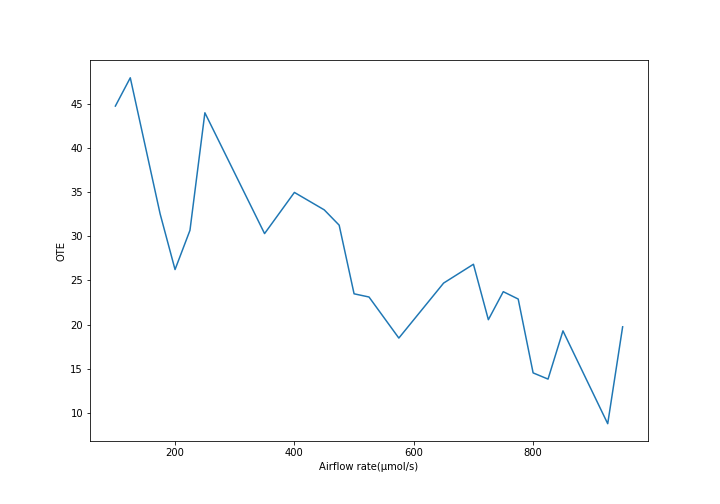
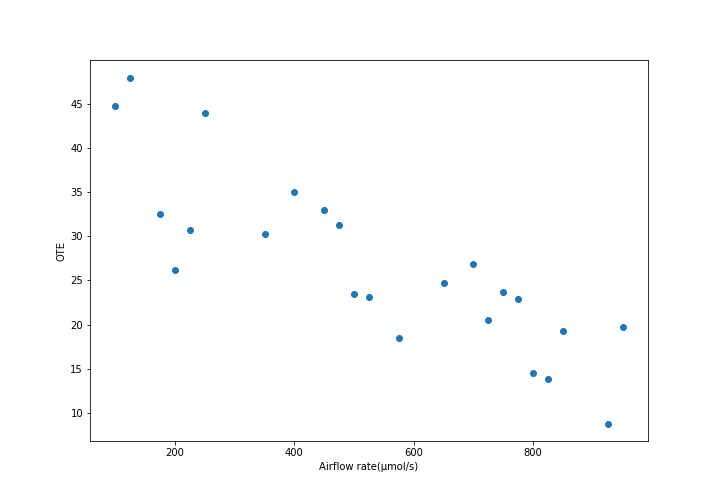
asd

diff --git a/Lab4/team10_lab4.md b/Lab4/team10_lab4.md
@@ -1,6 +1,6 @@
 # Lab 4 for CEE 4530
 
-#### Team 10: Victor Khong & Jacqueline Wong ####
+#### Team 10: Victor Khong (8 hours) & Jacqueline Wong (12 hours) ####
 
 <b> 1. Eliminate the data from each data set when the dissolved oxygen concentration was less than 2 mg/L. This will ensure that all of the sulfite has reacted. Also remove the data when the dissolved oxygen concentration was greater than 6 mg/L to reduce the effect of measurement errors when the oxygen deficit is small.</b>
 
@@ -58,7 +58,7 @@ $$OTE=\frac{\hat{k}_{v,l} \left(C^{* } -C\right)VRT}{MW_{O_{2} } Q_{air} P_{air}
 
 <b>Figure 4</b>: Plots of oxygen transfer efficiency against airflow rates.
 
-While there is not a clear trend, appears that apart from some anomalies, oxygen transfer efficiency decreases with airflow rate. This makes sense as the more oxygen is pumped per unit time, the faster it rises and escapes into the air above the water.
+While there is not a clear simple trend, appears that apart from some anomalies, oxygen transfer efficiency decreases with airflow rate. This makes sense as the more oxygen is pumped per unit time, the faster it rises and escapes into the air above the water. It also matches with the above equation.
 
 <b> 8. Comment on the oxygen transfer efficiency and the trend or trends that you observe.</b>
 
@@ -70,7 +70,7 @@ Another trend that observed is that the greater the air flow rate, the lower the
 
 <b> 9. Propose a change to the experimental apparatus that would increase the efficiency.</b>
 
-A change to the experimental apparatus that would increase the efficiency is using a deeper and less wide container but filling the same volume of water such that a larger airflow rate could be used without the water overflowing from the container and disrupting our results. This would enable us to test for more airflow rates since the dissolved oxygen concentration increases at a greater rate with a higher airflow rate. However, since we still would like to test a range of airflow rate values, each airflow rate value currently used in this experiment can be increased by the same magnitude, for example by 50 µmol/s or by 50%. This change in experimental apparatus would also enable us to test for a larger range of airflow rate values so there is greater flexibility in choosing the air flow rate values.
+A change to the experimental apparatus that would increase the efficiency is using a deeper and less wide container but filling the same volume of water such that a larger airflow rate could be used without the water overflowing from the container and disrupting our results. This would enable us to test for more airflow rates since the dissolved oxygen concentration increases at a slight greater rate with a higher airflow rate. More importantly, this will increase the surface area with which the oxygen comes into direct contact with the water, increasing the time for which the oxygen is able to transfer into the water. However, since we still would like to test a range of airflow rate values, each airflow rate value currently used in this experiment can be increased by the same magnitude, for example by 50 µmol/s or by 50%. This change in experimental apparatus would also enable us to test for a larger range of airflow rate values so there is greater flexibility in choosing the air flow rate values.
 
 <b> 10. Verify that your report and graphs meet the requirements.</b>
 
@@ -96,11 +96,13 @@ To show our understanding of the ProCoDA program, we have also written a ProCoDA
 
 #### Conclusions ####
 
-Overall, for this experiment, we found out that the greater the air flow rate, the greater the rate of increase in dissolved oxygen concentration and the lower the oxygen transfer efficiency. Furthermore, it was found that the actual aeration process actually requires less time than predicted by our model.
+Overall, for this experiment, we found out that the greater the air flow rate, the greater the rate of increase in dissolved oxygen concentration, the greater the volume gas transfer coefficient and the lower the oxygen transfer efficiency. Furthermore, it was found that the actual aeration process actually requires less time than predicted by our model.
 
 #### Suggestions ####
 
 As mentioned in Question 9, using a larger container but filling the same volume of water is beneficial to the experiment. The problem with the current experimental apparatus is that water often has a chance to overflow at high air flow rates, which would disrupt our experiment. To counter for this, we are forced to used lower air flow rates. By using a larger container but filling the same volume of water, it would increase the efficiency because a larger airflow rate could be used without the water overflowing from the container and disrupting our results. This would enable us to test for more airflow rates since the dissolved oxygen concentration increases at a greater rate with a higher airflow rate. However, since we still would like to test a range of airflow rate values, each airflow rate value currently used in this experiment can be increased by the same magnitude, for example by 50µmol/s or by 50%. This change in experimental apparatus would also enable us to test for a larger range of airflow rate values so there is greater flexibility in choosing the air flow rate values.
+
+As seen in Figures 3 and 4, there were some anomalies in the experiment that made it difficult to identify trends. Perhaps we should consider having each group stick to one airflow rate but repeating the experiment 3 times for that airflow. In other words, we feel that repeating the experiment would increase the reliability of our results, especially since we see from our graphs, that the values fluctuate a lot.
 
 Another suggestion is to include more pictures and diagrams in the instructions. We felt that pictures of different components and diagrams would have clarified some of the instructions and made it easier for us to follow the instructions step-by-step. This would have enabled us to complete the experiment with less mistakes and with greater efficiency.
 
@@ -183,11 +185,11 @@ for i in range(airflows.size):
 # Question 2
 
 plt.figure('ax',(10,7))
-plt.plot(time_data[0], DO_data[0],'-')
-plt.plot(time_data[4], DO_data[4],'-')
-plt.plot(time_data[11], DO_data[11],'-')
-plt.plot(time_data[15], DO_data[15],'-')
-plt.plot(time_data[22], DO_data[22],'-')
+plt.plot(time_data[0], DO_data[0],'o')
+plt.plot(time_data[4], DO_data[4],'o')
+plt.plot(time_data[11], DO_data[11],'o')
+plt.plot(time_data[15], DO_data[15],'o')
+plt.plot(time_data[22], DO_data[22],'o')
 plt.xlabel(r'time (s)')
 plt.ylabel(r'Oxygen concentration (mg/L)')
 leg = plt.legend((airflows[0].magnitude,airflows[4].magnitude,airflows[11].magnitude,airflows[15].magnitude,airflows[22].magnitude), loc='best')
@@ -224,7 +226,7 @@ for i in range(len(time_data)):
 
 t_model = np.linspace(0,max(time_data[4]),len(C_model))
 plt.figure('ax',(10,7))
-plt.plot(time_data[4], DO_data[4],'-')
+plt.plot(time_data[4], DO_data[4],'o')
 plt.plot(t_model, C_model)
 plt.xlabel(r'time (s)')
 plt.ylabel(r'Oxygen concentration (mg/L)')
@@ -235,7 +237,7 @@ plt.show()
 # Question 6
 
 plt.figure('ax',(10,7))
-plt.plot(airflows, k_vl,'-')
+plt.plot(airflows, k_vl,'o')
 plt.xlabel(r'Airflow rate (μmol/s)')
 plt.ylabel(r'k_v,l (1/s)')
 plt.savefig('Lab4/k_vl.png')
@@ -250,7 +252,7 @@ V = 750 * u.mL
 f_O2 = 0.21
 OTE = (k_vl * OD * V * R * T)/(MW_O2 * airflows * P_air * f_O2)
 plt.figure('ax',(10,7))
-plt.plot(airflows, OTE,'-')
+plt.plot(airflows, OTE,'o')
 plt.xlabel(r'Airflow rate(μmol/s)')
 plt.ylabel(r'OTE')
 plt.savefig('Lab4/OTE.png')
